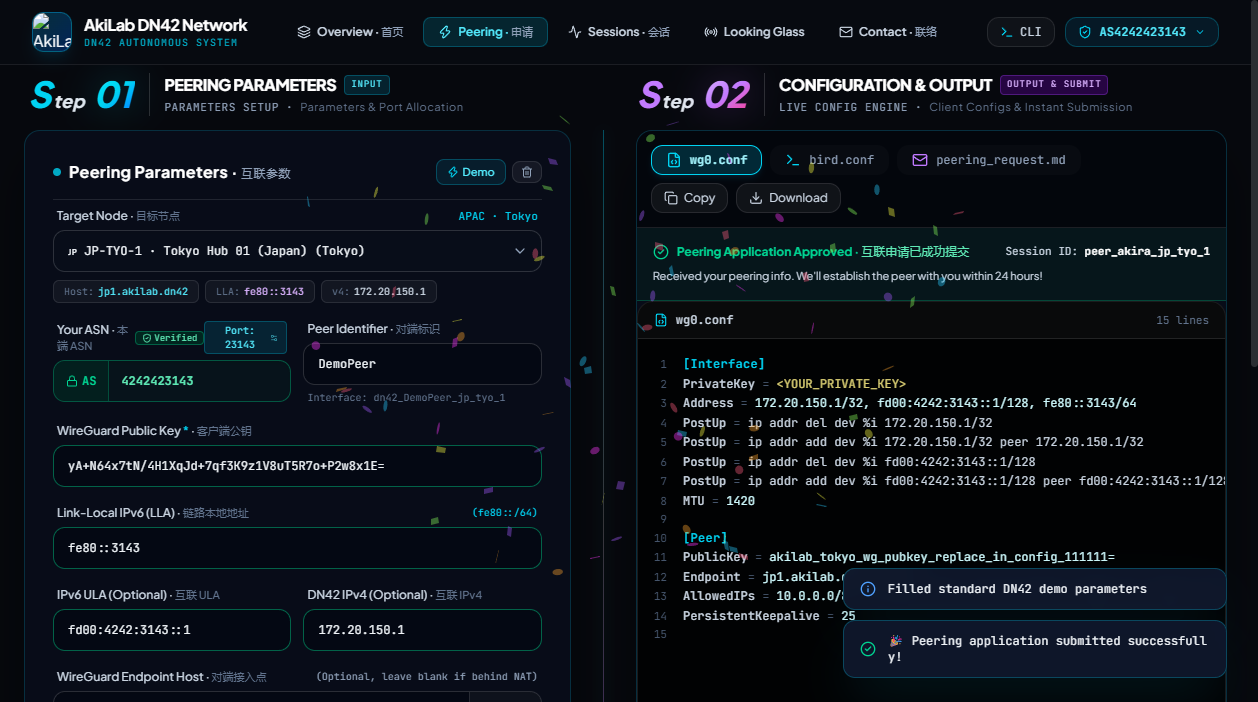
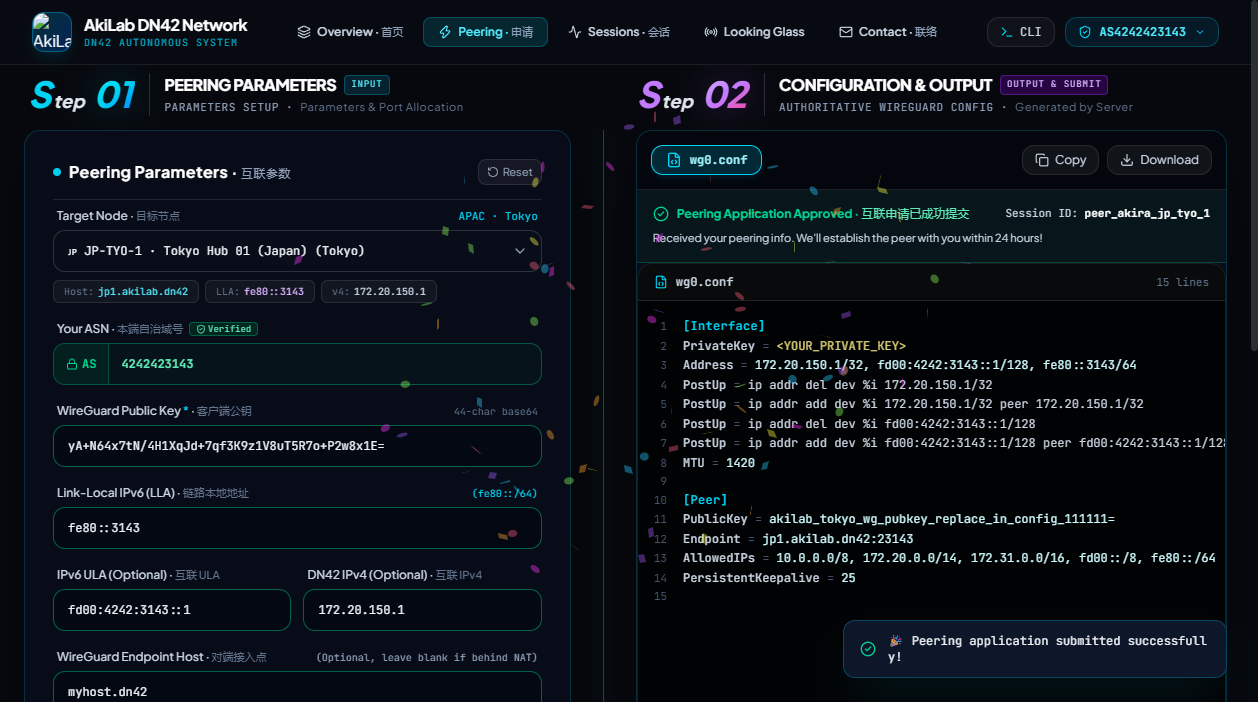
test(e2e): update browser test suite and screenshots for round 13 form workflow

diff --git a/tests/fixtures/browser_wasm_runner.js b/tests/fixtures/browser_wasm_runner.js
@@ -338,8 +338,8 @@ async function main() {
   assert.ok(lgViewText.includes('Command'), 'Must render Looking Glass command options');
   console.log('✓ R2 verified: Looking Glass switches seamlessly to in-app diagnostic view!');
 
-  // 14. Test R4: Peering Studio Form Visual Alignment & Submission
-  console.log('\n--- 14. Verifying R4: Peering Studio Form & Submission ---');
+  // 14. Test Round 13: Peering Studio Form Exact 8 Fields & Submission Workflow
+  console.log('\n--- 14. Verifying Round 13: Peering Studio Form & Submission ---');
   await cdp.evaluate(`
     const navBtns = Array.from(document.querySelectorAll('nav button'));
     const peerNav = navBtns.find(b => b.textContent.includes('Peering'));
@@ -348,17 +348,55 @@ async function main() {
   await delay(1000);
 
   const formText = await cdp.evaluate('document.body.innerText');
-  assert.ok(formText.includes('Step 01') || formText.includes('Step') || formText.includes('PEERING PARAMETERS'), 'Must render Step 01 / Peering Parameters header (R4)');
-  assert.ok(formText.includes('Your ASN'), 'Must render Your ASN field (R4)');
-  assert.ok(formText.includes('WireGuard Public Key'), 'Must render WireGuard Public Key field (R4)');
-  assert.ok(formText.includes('wg0.conf'), 'Must render wg0.conf tab (R4)');
+  assert.ok(formText.includes('Step 01') || formText.includes('PEERING PARAMETERS'), 'Must render Step 01 / Peering Parameters header');
+  assert.ok(formText.includes('Target Node'), 'Must render 1. Target Node');
+  assert.ok(formText.includes('Your ASN'), 'Must render 2. Your ASN');
+  assert.ok(formText.includes('WireGuard Public Key'), 'Must render 3. WireGuard Public Key');
+  assert.ok(formText.includes('Link-Local IPv6 (LLA)'), 'Must render 4. Link-Local IPv6 (LLA)');
+  assert.ok(formText.includes('IPv6 ULA') && formText.includes('DN42 IPv4'), 'Must render 5. IPv6 ULA & DN42 IPv4');
+  assert.ok(formText.includes('WireGuard Endpoint Host'), 'Must render 6. WireGuard Endpoint Host');
+  assert.ok(formText.includes('PeerPort') && formText.includes('ListenPort'), 'Must render 7. PeerPort & ListenPort');
+  assert.ok(formText.includes('WireGuard MTU'), 'Must render 8. WireGuard MTU');
 
-  // Click Demo Data Fill
+  // Verify removed items are NOT present
+  assert.ok(!formText.includes('Peer Identifier'), 'Peer Identifier must be removed');
+  assert.ok(!formText.includes('BGP Session Mode'), 'BGP Session Mode selector must be removed');
+  assert.ok(!formText.includes('bird.conf'), 'bird.conf tab must be removed');
+  assert.ok(!formText.includes('peering_request.md'), 'peering_request.md tab must be removed');
+
+  // Verify right canvas before submit: static prompt text and NO config preview
+  assert.ok(
+    formText.includes('Submit the form to receive your WireGuard configuration generated by the AkiLab authority.'),
+    'Must display static prompt text before submit'
+  );
+  assert.ok(!formText.includes('[Interface]'), 'Must NOT generate or preview config before submit');
+
+  // Fill in form inputs
+  console.log('Filling form inputs...');
   await cdp.evaluate(`
-    const demoBtn = Array.from(document.querySelectorAll('button')).find(b => b.textContent.includes('Demo'));
-    if (demoBtn) demoBtn.click();
+    (() => {
+      const inputs = Array.from(document.querySelectorAll('input'));
+      const setVal = (input, val) => {
+        const nativeSetter = Object.getOwnPropertyDescriptor(window.HTMLInputElement.prototype, 'value').set;
+        nativeSetter.call(input, val);
+        input.dispatchEvent(new Event('input', { bubbles: true }));
+        input.dispatchEvent(new Event('change', { bubbles: true }));
+      };
+
+      const pubKeyInput = inputs.find(i => i.placeholder && i.placeholder.includes('yA+N64x7tN/4H1XqJd+7qf3K9z1V8uT5R7o+P2w8x1E='));
+      if (pubKeyInput) setVal(pubKeyInput, 'yA+N64x7tN/4H1XqJd+7qf3K9z1V8uT5R7o+P2w8x1E=');
+
+      const ulaInput = inputs.find(i => i.placeholder && i.placeholder.includes('fd00::xxxx'));
+      if (ulaInput) setVal(ulaInput, 'fd00:4242:3143::1');
+
+      const v4Input = inputs.find(i => i.placeholder && i.placeholder.includes('172.20.x.x'));
+      if (v4Input) setVal(v4Input, '172.20.150.1');
+
+      const epInput = inputs.find(i => i.placeholder && i.placeholder.includes('node.example.dn42'));
+      if (epInput) setVal(epInput, 'myhost.dn42');
+    })()
   `);
-  await delay(500);
+  await delay(800);
 
   // Submit peering form
   console.log('Submitting GUI Peering Form...');
@@ -369,8 +407,10 @@ async function main() {
   await delay(2000);
 
   const afterSubmitText = await cdp.evaluate('document.body.innerText');
-  assert.ok(afterSubmitText.includes('Peering Application Approved') || afterSubmitText.includes('Session ID:'), 'Form submission must succeed with approval banner (R4)');
-  console.log('✓ R4 verified: Peering Studio visual alignment, live configs, and submission validated!');
+  assert.ok(afterSubmitText.includes('Peering Application Approved') || afterSubmitText.includes('Session ID:'), 'Form submission must succeed with approval banner');
+  assert.ok(afterSubmitText.includes('[Interface]'), 'Right canvas must render authoritative WireGuard config from server');
+  assert.ok(afterSubmitText.includes('Address = 172.20.150.1/32, fd00:4242:3143::1/128, fe80::3143/64'), 'Must render correct address line in WG config');
+  console.log('✓ Round 13 verified: 8 fields, static placeholder before submit, server WG config output, and submission validated!');
 
   // Capture GUI Peering Form Screenshot
   const formScreenshot = await cdp.send('Page.captureScreenshot', { format: 'png' });
